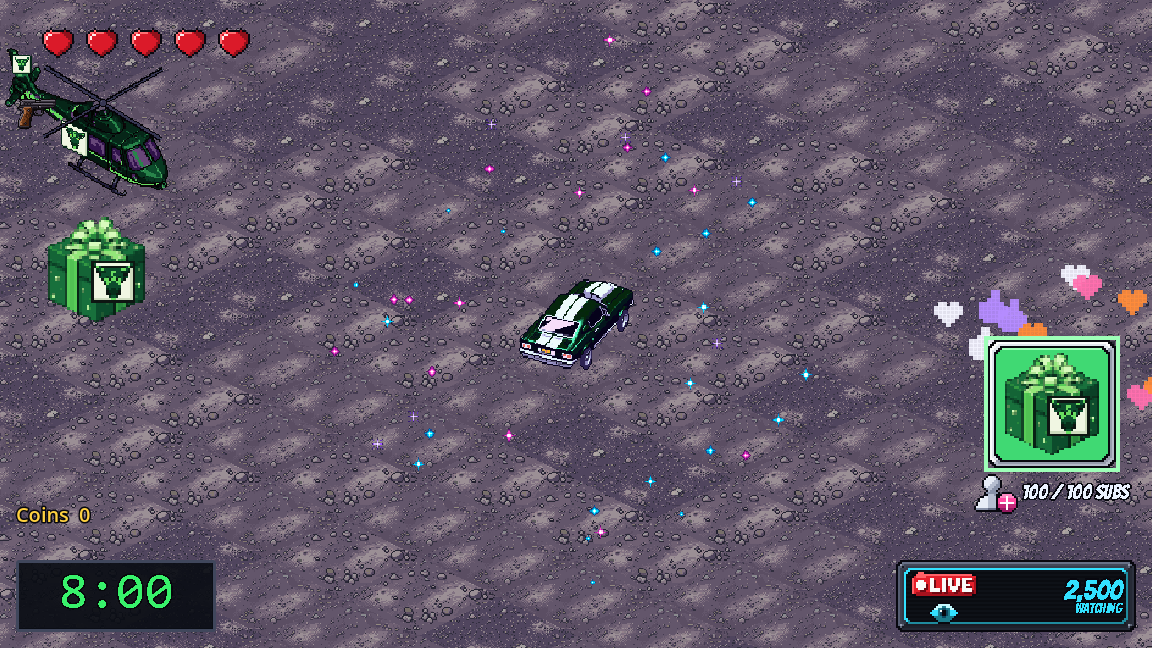
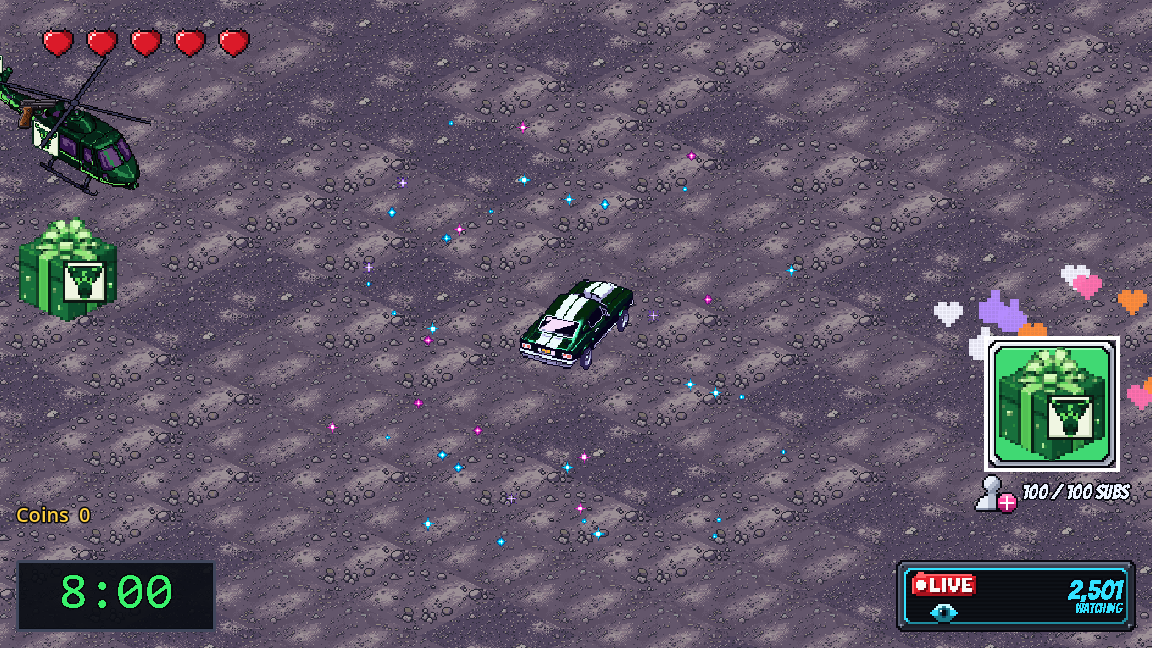
T-351: floaters rise twice as fast (quick tuning)

diff --git a/tasks/T-351-reaction-bursts-on-a-sub-goal-and-at-high-viewers.md b/tasks/T-351-reaction-bursts-on-a-sub-goal-and-at-high-viewers.md
@@ -83,5 +83,7 @@ Screenshots and GIFs (`bash game/tools/record_reactions.sh`, fixture `tests/fixt
 QA (round 1): all 7 criteria pass. qa_check: tests PASS (3 sets; counts per the builder: GUT 1803, game/tools 645, tools 545), screenshots PASS (4 files, viewed: burst and floaters visible, car clear). The documents line failed only because game/README.md is now an index; its content is in game/docs/hud-and-menus/hud.md, counted as the README criterion per the Project Lead. 17 new tests cover burst once per goal, rates per step, cap, alpha, draw order, lanes, pause, new run.
 Quick tuning (board, 2026-10-28; its first message was garbled by dictation, corrected to: "floating up from anywhere at the bottom of the screen, because that's how Instagram, Facebook, TikTok lives do it", chosen option "Anywhere along the bottom ... busier and more noticeable ... They would pass by the car"): merged `playtest/livestream-hud` first (T-338's heart row; clean merge). Floaters now start at a random x across the whole bottom edge (no thirds, no keep-off-the-car rule), 1 or 2 at a time at uneven gaps, rise to near the top with sway, a scale pop (0.5 to 1 over 0.25 s) and fade out from 55 percent of their life. Rates per look step [0, 2, 3.5, 5, 7.5] groups per second (none at the base step, a lively flow from the first heat step, a real stream at fire); alpha 0.9, icon_scale 4 (was 3), cap 60 (was 12). The burst is unchanged. New keys in `hud.json` `reactions`: `edge_margin`, `fade_out_from`, `pop_seconds`, `pop_from` (the lane keys are gone). Tests updated (19 in `test_hud_reactions.gd`: whole-width spawn, flow at the first heat step, none below it, sway up to near the top, the pop). Docs: `docs/hud-and-menus.md` (the bullet says the board's choice replaces the thirds and the off-the-car rule) and `game/docs/hud-and-menus/hud.md`. Full runs: GUT 1812/1812 (148 scripts), `game/tools` 645 OK, `tools` 545 OK. Screenshots retaken: `art-archive/T-351/screenshots/reactions_float.png` and `.gif` (burst files regenerated too, same behaviour). The numbers are proposals for the playtest.
 
+Quick tuning 2 (board, 2026-10-28: "i want them to float up faster"): floaters' `rise_min` and `rise_max` in `hud.json` doubled, 90 to 160 becomes 180 to 320 px per second (also the `DEFAULT_CFG` in `reactions.gd`). A floater's life is 92 percent of the screen height over its speed, so they still climb to near the top and fade the same way, in about half the time. No test pinned the speeds. Full runs: GUT 1812/1812, `game/tools` 645 OK, `tools` 545 OK. `art-archive/T-351/screenshots/reactions_float.gif` retaken.
+
 - 2026-10-28, needs-playtest → in-progress: The board: I think there aren't enough reactions floating up. I didn't want them to be floating up from anywhere at the bottom of the screen towards the top. I want to look more like a live stream when you get live interactions, and the reactions kind of float up. They're too discrete at the moment for me to make them a bit more noticeable. Other than that, everything is okay.
 - 2026-10-28, in-progress → in-qa: Ready for the board to play (quick tuning)
